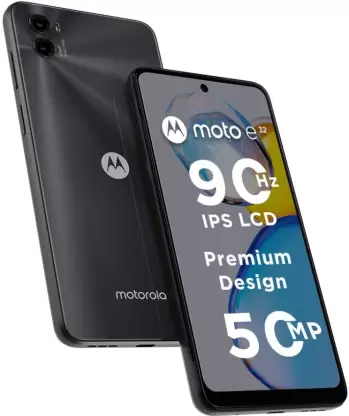
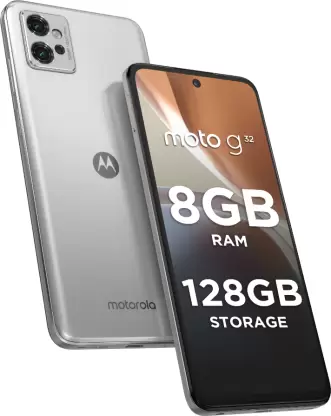
.

diff --git a/ByteBlasters/Mobile/index.html b/ByteBlasters/Mobile/index.html
@@ -341,7 +341,7 @@
             <li class="product-item">
               <div class="product-card" tabindex="0">
                 <figure class="card-banner">
-                <img src="./images/mobile6.1.webp" width="312" height="350" loading="lazy" alt="Moto e32" class="image-contain">
+                <img src="./images/mobile6.webp" width="312" height="350" loading="lazy" alt="Moto G32" class="image-contain">
                   <ul class="card-action-list">
 
 
@@ -367,22 +367,22 @@
                 <div class="card-content">
                   
                   <h3 class="h3 card-title">
-                    <a href="https://www.flipkart.com/motorola-e32-eco-black-64-gb/p/itm3241677bdd2b2" target="_blank">Moto e32</a>
+                    <a href="https://www.flipkart.com/motorola-g32-satin-silver-128-gb/p/itm8e7224d29bfc6?pid=MOBGM2EHGUNGDDQR&lid=LSTMOBGM2EHGUNGDDQRKIBLDP&marketplace=FLIPKART&q=moto+g32&store=tyy%2F4io&srno=s_1_3&otracker=search&otracker1=search&fm=organic&iid=2ba3b14c-a96e-4990-872d-ebef684bb254.MOBGM2EHGUNGDDQR.SEARCH&ppt=clp&ppn=mobile-phones-store&ssid=wxwwcu4qow0000001708267844706&qH=2c7577952eb26a3f" target="_blank">Moto G32</a>
                   </h3>
 
                   <div class="card-cat">
                     <p class="card-cat-link">
-                      Processor : MediaTek Helio G37    <br>
-                      Camera : 50MP+2MP+8MP(Selfie) <br>
-                      RAM/ROM : 4GB/64GB <br>
-                      Battery/Charger : 5000mAh/18W <br>
+                      Processor : Snapdragon 680<br>
+                      Camera: 50MP+8MP+2MP+16MP(Selfie)<br>
+                      RAM/ROM: 8GB/128GB<br>
+                      BBattery/Charger: 5000mAh/33W <br>
                     </p> 
                   </div>
 
 
-                  <data class="card-price">₹7,500</data>
+                  <data class="card-price">₹10,000</data>
 
-                  <a href="https://www.flipkart.com/motorola-e32-eco-black-64-gb/p/itm3241677bdd2b2" class="learn-more" target="_blank">Learn More</a>
+                  <a href="https://www.flipkart.com/motorola-g32-satin-silver-128-gb/p/itm8e7224d29bfc6?pid=MOBGM2EHGUNGDDQR&lid=LSTMOBGM2EHGUNGDDQRKIBLDP&marketplace=FLIPKART&q=moto+g32&store=tyy%2F4io&srno=s_1_3&otracker=search&otracker1=search&fm=organic&iid=2ba3b14c-a96e-4990-872d-ebef684bb254.MOBGM2EHGUNGDDQR.SEARCH&ppt=clp&ppn=mobile-phones-store&ssid=wxwwcu4qow0000001708267844706&qH=2c7577952eb26a3f" class="learn-more" target="_blank">Learn More</a>
                 </div>
 
               </div>
